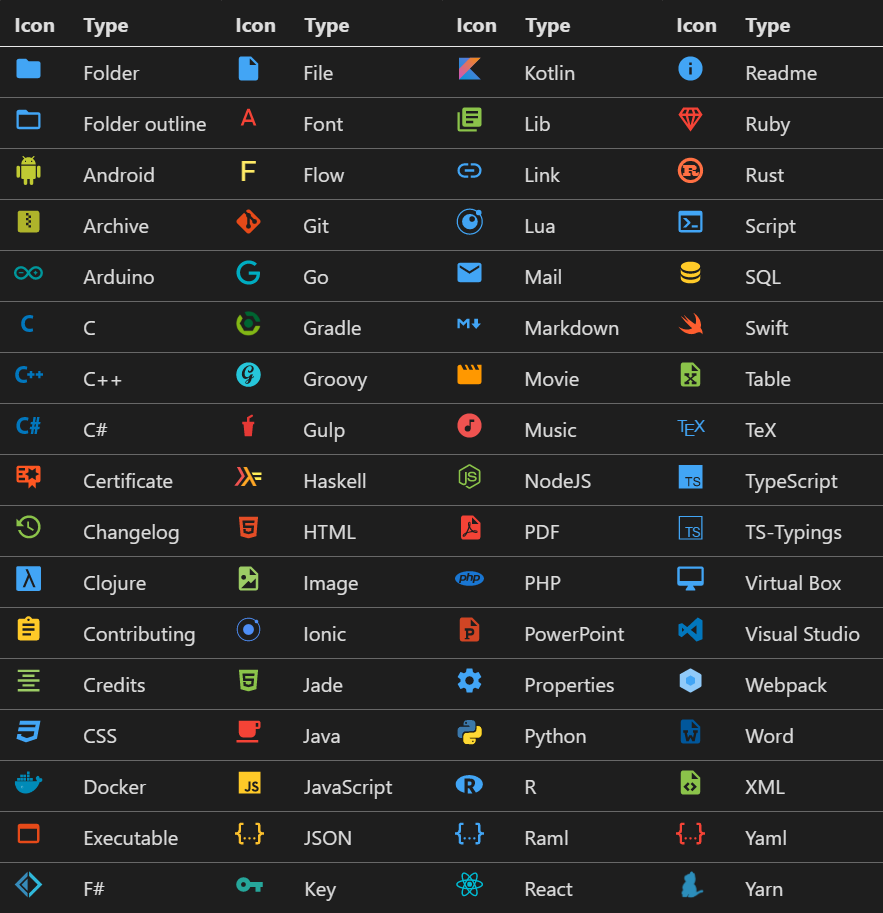
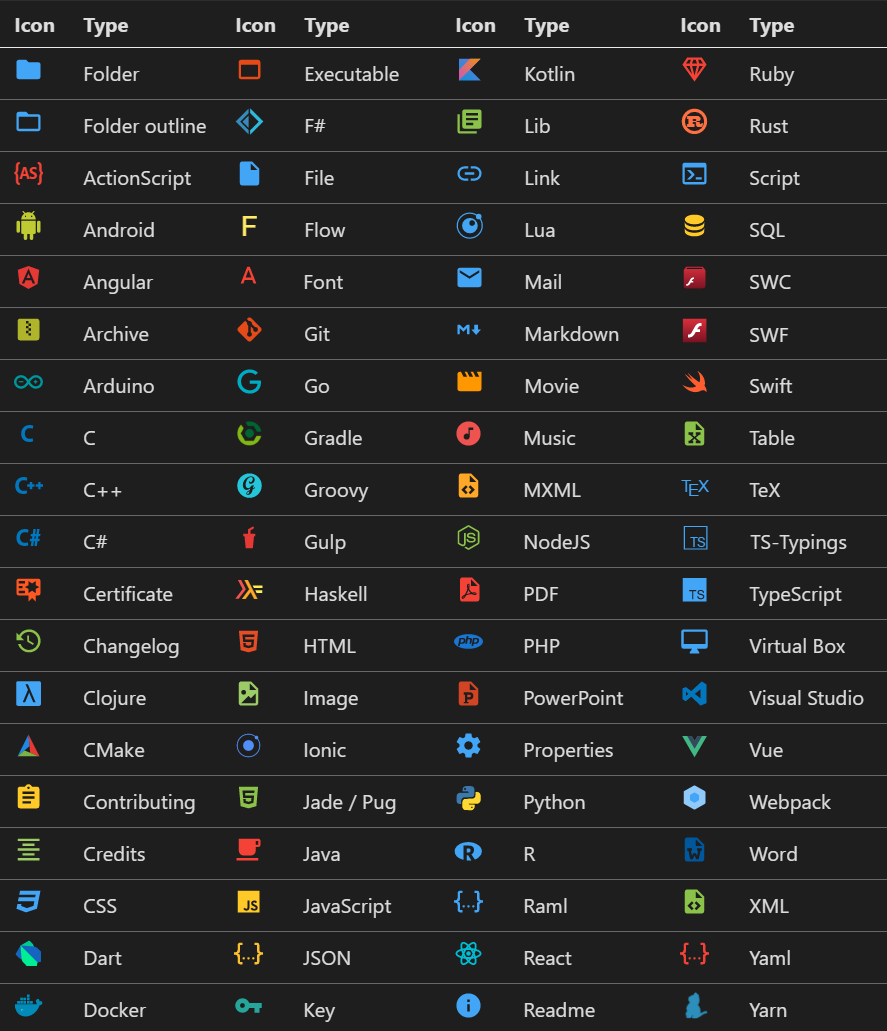
updated iconset image

Changed region(s): [[0.0, 0.0, 1.0, 1.0]]

diff --git a/src/allicons.md b/src/allicons.md
@@ -2,7 +2,9 @@
 |---|---|
 |<img src="./../fileicons/icons/folder.svg" width="20px">|Folder|
 |<img src="./../fileicons/icons/folder-outline.svg" width="20px">|Folder outline|
+|<img src="./../fileicons/icons/actionscript.svg" width="20px">|ActionScript|
 |<img src="./../fileicons/icons/android.svg" width="20px">|Android|
+|<img src="./../fileicons/icons/angular.svg" width="20px">|Angular|
 |<img src="./../fileicons/icons/zip.svg" width="20px">|Archive|
 |<img src="./../fileicons/icons/arduino.svg" width="20px">|Arduino|
 |<img src="./../fileicons/icons/c-lang.svg" width="20px">|C|
@@ -11,15 +13,17 @@
 |<img src="./../fileicons/icons/certificate.svg" width="20px">|Certificate|
 |<img src="./../fileicons/icons/changelog.svg" width="20px">|Changelog|
 |<img src="./../fileicons/icons/clojure.svg" width="20px">|Clojure|
+|<img src="./../fileicons/icons/cmake.svg" width="20px">|CMake|
 |<img src="./../fileicons/icons/contributing.svg" width="20px">|Contributing|
 |<img src="./../fileicons/icons/credits.svg" width="20px">|Credits|
 |<img src="./../fileicons/icons/css.svg" width="20px">|CSS|
+|<img src="./../fileicons/icons/dart.svg" width="20px">|Dart|
 |<img src="./../fileicons/icons/docker.svg" width="20px">|Docker|
 |<img src="./../fileicons/icons/exe.svg" width="20px">|Executable|
 |<img src="./../fileicons/icons/fsharp.svg" width="20px">|F#|
 |<img src="./../fileicons/icons/file.svg" width="20px">|File|
-|<img src="./../fileicons/icons/font.svg" width="20px">|Font|
 |<img src="./../fileicons/icons/flow.svg" width="20px">|Flow|
+|<img src="./../fileicons/icons/font.svg" width="20px">|Font|
 |<img src="./../fileicons/icons/git.svg" width="20px">|Git|
 |<img src="./../fileicons/icons/go.svg" width="20px">|Go|
 |<img src="./../fileicons/icons/gradle.svg" width="20px">|Gradle|
@@ -29,7 +33,7 @@
 |<img src="./../fileicons/icons/html.svg" width="20px">|HTML|
 |<img src="./../fileicons/icons/image.svg" width="20px">|Image|
 |<img src="./../fileicons/icons/ionic.svg" width="20px">|Ionic|
-|<img src="./../fileicons/icons/pug.svg" width="20px">|Jade|
+|<img src="./../fileicons/icons/pug.svg" width="20px">|Jade / Pug|
 |<img src="./../fileicons/icons/java.svg" width="20px">|Java|
 |<img src="./../fileicons/icons/javascript.svg" width="20px">|JavaScript|
 |<img src="./../fileicons/icons/json.svg" width="20px">|JSON|
@@ -42,6 +46,7 @@
 |<img src="./../fileicons/icons/markdown.svg" width="20px">|Markdown|
 |<img src="./../fileicons/icons/movie.svg" width="20px">|Movie|
 |<img src="./../fileicons/icons/music.svg" width="20px">|Music|
+|<img src="./../fileicons/icons/mxml.svg" width="20px">|MXML|
 |<img src="./../fileicons/icons/nodejs.svg" width="20px">|NodeJS|
 |<img src="./../fileicons/icons/pdf.svg" width="20px">|PDF|
 |<img src="./../fileicons/icons/php.svg" width="20px">|PHP|
@@ -50,19 +55,22 @@
 |<img src="./../fileicons/icons/python.svg" width="20px">|Python|
 |<img src="./../fileicons/icons/r.svg" width="20px">|R|
 |<img src="./../fileicons/icons/raml.svg" width="20px">|Raml|
-|<img src="./../fileicons/icons/jsx.svg" width="20px">|React|
+|<img src="./../fileicons/icons/react.svg" width="20px">|React|
 |<img src="./../fileicons/icons/readme.svg" width="20px">|Readme|
 |<img src="./../fileicons/icons/ruby.svg" width="20px">|Ruby|
 |<img src="./../fileicons/icons/rust.svg" width="20px">|Rust|
 |<img src="./../fileicons/icons/console.svg" width="20px">|Script|
 |<img src="./../fileicons/icons/database.svg" width="20px">|SQL|
+|<img src="./../fileicons/icons/swc.svg" width="20px">|SWC|
+|<img src="./../fileicons/icons/flash.svg" width="20px">|SWF|
 |<img src="./../fileicons/icons/swift.svg" width="20px">|Swift|
 |<img src="./../fileicons/icons/table.svg" width="20px">|Table|
 |<img src="./../fileicons/icons/tex.svg" width="20px">|TeX|
-|<img src="./../fileicons/icons/typescript.svg" width="20px">|TypeScript|
 |<img src="./../fileicons/icons/typescript-def.svg" width="20px">|TS-Typings|
+|<img src="./../fileicons/icons/typescript.svg" width="20px">|TypeScript|
 |<img src="./../fileicons/icons/virtual.svg" width="20px">|Virtual Box|
 |<img src="./../fileicons/icons/visualstudio.svg" width="20px">|Visual Studio|
+|<img src="./../fileicons/icons/vue.svg" width="20px">|Vue|
 |<img src="./../fileicons/icons/webpack.svg" width="20px">|Webpack|
 |<img src="./../fileicons/icons/word.svg" width="20px">|Word|
 |<img src="./../fileicons/icons/xml.svg" width="20px">|XML|
